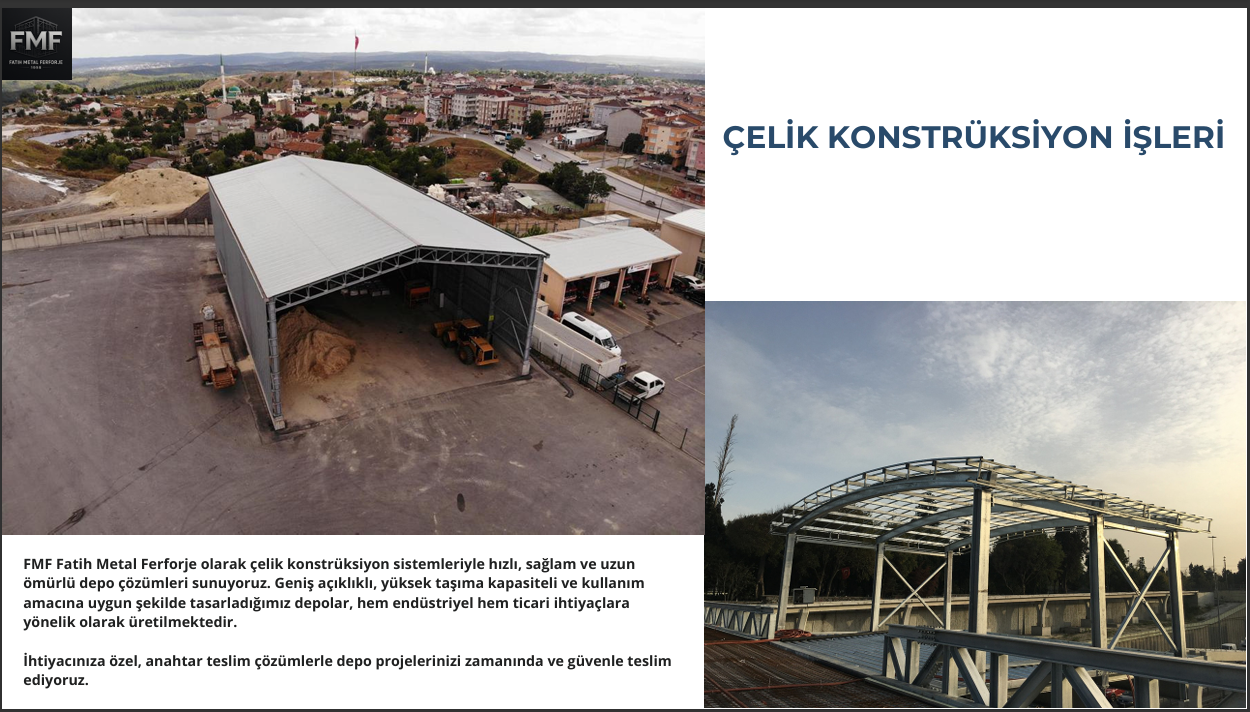
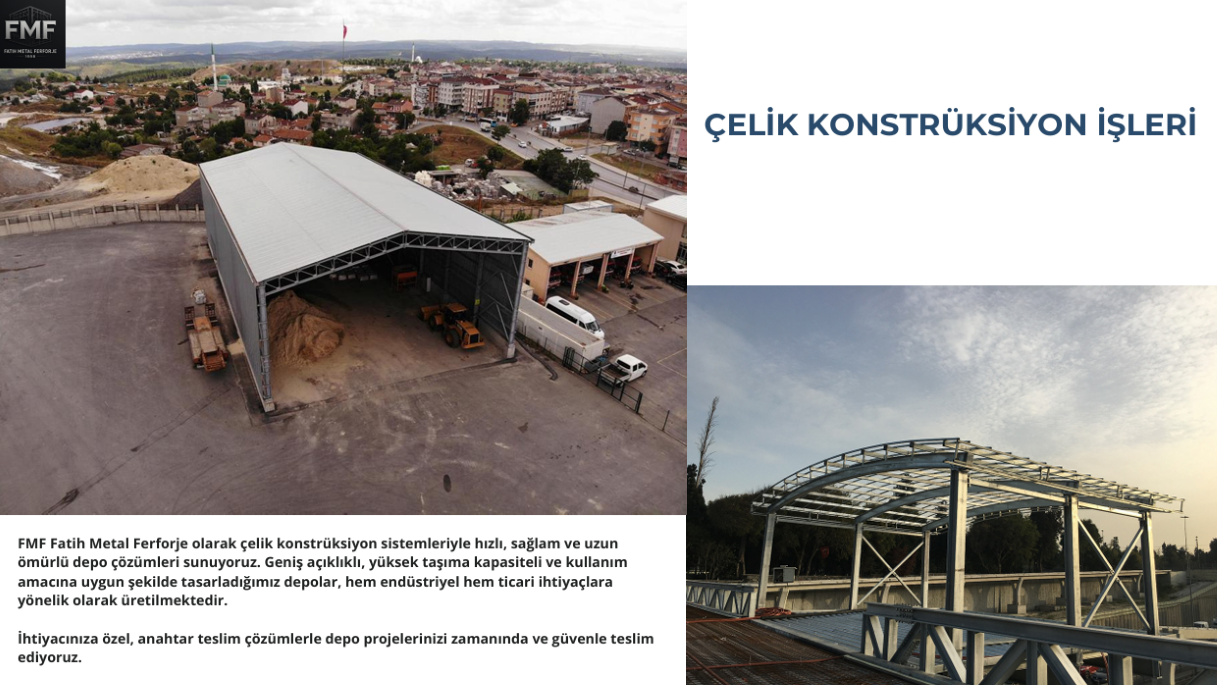
init commit

diff --git a/templates/photos.html b/templates/photos.html
@@ -44,27 +44,37 @@
   <h1>Resimler</h1>
   <div class="gallery">
     <!-- Örnek resimler -->
-    <img class="lightbox-image" src="/static/img/fmf4.jpg" alt="Resim 1">
-    <img class="lightbox-image" src="/static/img/fmf3.jpg" alt="Resim 2">
-    <img class="lightbox-image" src="/static/img/fmf5.jpg" alt="Resim 3">
-    <img class="lightbox-image" src="/static/img/fmf4.jpg" alt="Resim 1">
-    <img class="lightbox-image" src="/static/img/fmf3.jpg" alt="Resim 2">
-    <img class="lightbox-image" src="/static/img/fmf5.jpg" alt="Resim 3">
-    <img class="lightbox-image" src="/static/img/fmf4.jpg" alt="Resim 1">
-    <img class="lightbox-image" src="/static/img/fmf3.jpg" alt="Resim 2">
-    <img class="lightbox-image" src="/static/img/fmf5.jpg" alt="Resim 3">
-    <img class="lightbox-image" src="/static/img/fmf4.jpg" alt="Resim 1">
-    <img class="lightbox-image" src="/static/img/fmf3.jpg" alt="Resim 2">
-    <img class="lightbox-image" src="/static/img/fmf5.jpg" alt="Resim 3">
-    <img class="lightbox-image" src="/static/img/fmf4.jpg" alt="Resim 1">
-    <img class="lightbox-image" src="/static/img/fmf3.jpg" alt="Resim 2">
-    <img class="lightbox-image" src="/static/img/fmf5.jpg" alt="Resim 3">
-    <img class="lightbox-image" src="/static/img/fmf4.jpg" alt="Resim 1">
-    <img class="lightbox-image" src="/static/img/fmf3.jpg" alt="Resim 2">
-    <img class="lightbox-image" src="/static/img/fmf5.jpg" alt="Resim 3">
-    <img class="lightbox-image" src="/static/img/fmf4.jpg" alt="Resim 1">
-    <img class="lightbox-image" src="/static/img/fmf3.jpg" alt="Resim 2">
-    <img class="lightbox-image" src="/static/img/fmf5.jpg" alt="Resim 3">
+    <img class="lightbox-image" src="/static/img/GEDİZ ILICA KÖPRÜ YAPIMI/2.JPG" alt="Resim 1">
+    <img class="lightbox-image" src="/static/img/GEDİZ ILICA KÖPRÜ YAPIMI/5.JPG" alt="Resim 2">
+    <img class="lightbox-image" src="/static/img/izmit/RMOD9998.JPG" alt="Resim 3">
+    <img class="lightbox-image" src="/static/img/izmit/IMG_3049.JPG" alt="Resim 4">
+    <img class="lightbox-image" src="/static/img/KASTAMONU CİDE ORMAN İŞLETME/1.JPG" alt="Resim 5">
+    <img class="lightbox-image" src="/static/img/KASTAMONU CİDE ORMAN İŞLETME/3.JPG" alt="Resim 6">
+    <img class="lightbox-image" src="/static/img/KASTAMONU CİDE ORMAN İŞLETME/5.jpg" alt="Resim 7">
+    <img class="lightbox-image" src="/static/img/resim/Çelik Hangar Montaj.JPG" alt="Resim 8">
+    <img class="lightbox-image" src="/static/img/resim/Çelik Hangar Montaj 1.JPG" alt="Resim 9">
+    <img class="lightbox-image" src="/static/img/resim/Çelik Yapı8.JPG" alt="Resim 10">
+    <img class="lightbox-image" src="/static/img/resim/Devlet Konuk Evi2.JPG" alt="Resim 11">
+    <img class="lightbox-image" src="/static/img/RİZE ÇAYELİ YAY ÜST GEÇİT YAPIMI/1.JPG" alt="Resim 12">
+    <img class="lightbox-image" src="/static/img/RİZE ÇAYELİ YAY ÜST GEÇİT YAPIMI/4.JPG" alt="Resim 13">
+    <img class="lightbox-image" src="/static/img/RİZE İYİDERE TONOZ YAPIMI/1.JPG" alt="Resim 14">
+    <img class="lightbox-image" src="/static/img/RİZE İYİDERE TONOZ YAPIMI/3.JPG" alt="Resim 15">
+    <img class="lightbox-image" src="/static/img/TRABZON AKYAZI TONOZ YAPIMI/2.JPG" alt="Resim 16">
+    <img class="lightbox-image" src="/static/img/TRABZON AKYAZI TONOZ YAPIMI/4.JPG" alt="Resim 17">
+    <img class="lightbox-image" src="/static/img/TRABZON AKYAZI TONOZ YAPIMI/6.JPG" alt="Resim 18">
+    <img class="lightbox-image" src="/static/img/fmf.jpg" alt="Resim 19">
+    <img class="lightbox-image" src="/static/img/Hangar.jpg" alt="Resim 20">
+    <img class="lightbox-image" src="/static/img/resim/Ankara Cad. Korkuluk Pendik.JPG" alt="Resim 21">
+    <img class="lightbox-image" src="/static/img/resim/Cebeci Şehir Parkı1.JPG" alt="Resim 22">
+    <img class="lightbox-image" src="/static/img/resim/Korkuluk Uygulama 2.jpg" alt="Resim 23">
+    <img class="lightbox-image" src="/static/img/resim/Korkuluk Uygulama 3.JPG" alt="Resim 24">
+    <img class="lightbox-image" src="/static/img/resim/Korkuluk Uygulama 4.JPG" alt="Resim 25">
+    <img class="lightbox-image" src="/static/img/resim/Devlet Konuk Evi Katlanır Kapı.JPG" alt="Resim 26">
+    <img class="lightbox-image" src="/static/img/Kapı.jpg" alt="Resim 27">
+    <img class="lightbox-image" src="/static/img/resim/Kapı 2.JPG" alt="Resim 28">
+    <img class="lightbox-image" src="/static/img/resim/Kapı 3.JPG" alt="Resim 29">
+    <img class="lightbox-image" src="/static/img/resim/Katlanır Kapı.JPG" alt="Resim 30">
+    <img class="lightbox-image" src="/static/img/Kapı 2.jpg" alt="Resim 31">
     <!-- Yeni resimleri de buraya ekleyebilirsiniz -->
   </div>
 </main>

diff --git a/static/css/home_page.css b/static/css/home_page.css
@@ -18,7 +18,7 @@
 .slider {
   position: relative;
   width: 100%;
-  height: 100vh;
+  height: 115vh;
 }
 .slides {
   display: flex;
@@ -26,8 +26,8 @@
   height: 100%;
 }
 .slide {
-  min-width: 101%;
-  height: 110%;
+  min-width: 100%;
+  height: 100%;
 }
 
 .slide img {

diff --git a/static/css/photos.css b/static/css/photos.css
@@ -56,3 +56,4 @@
 #lightbox .close:hover {
     color: orange;
 }
+
